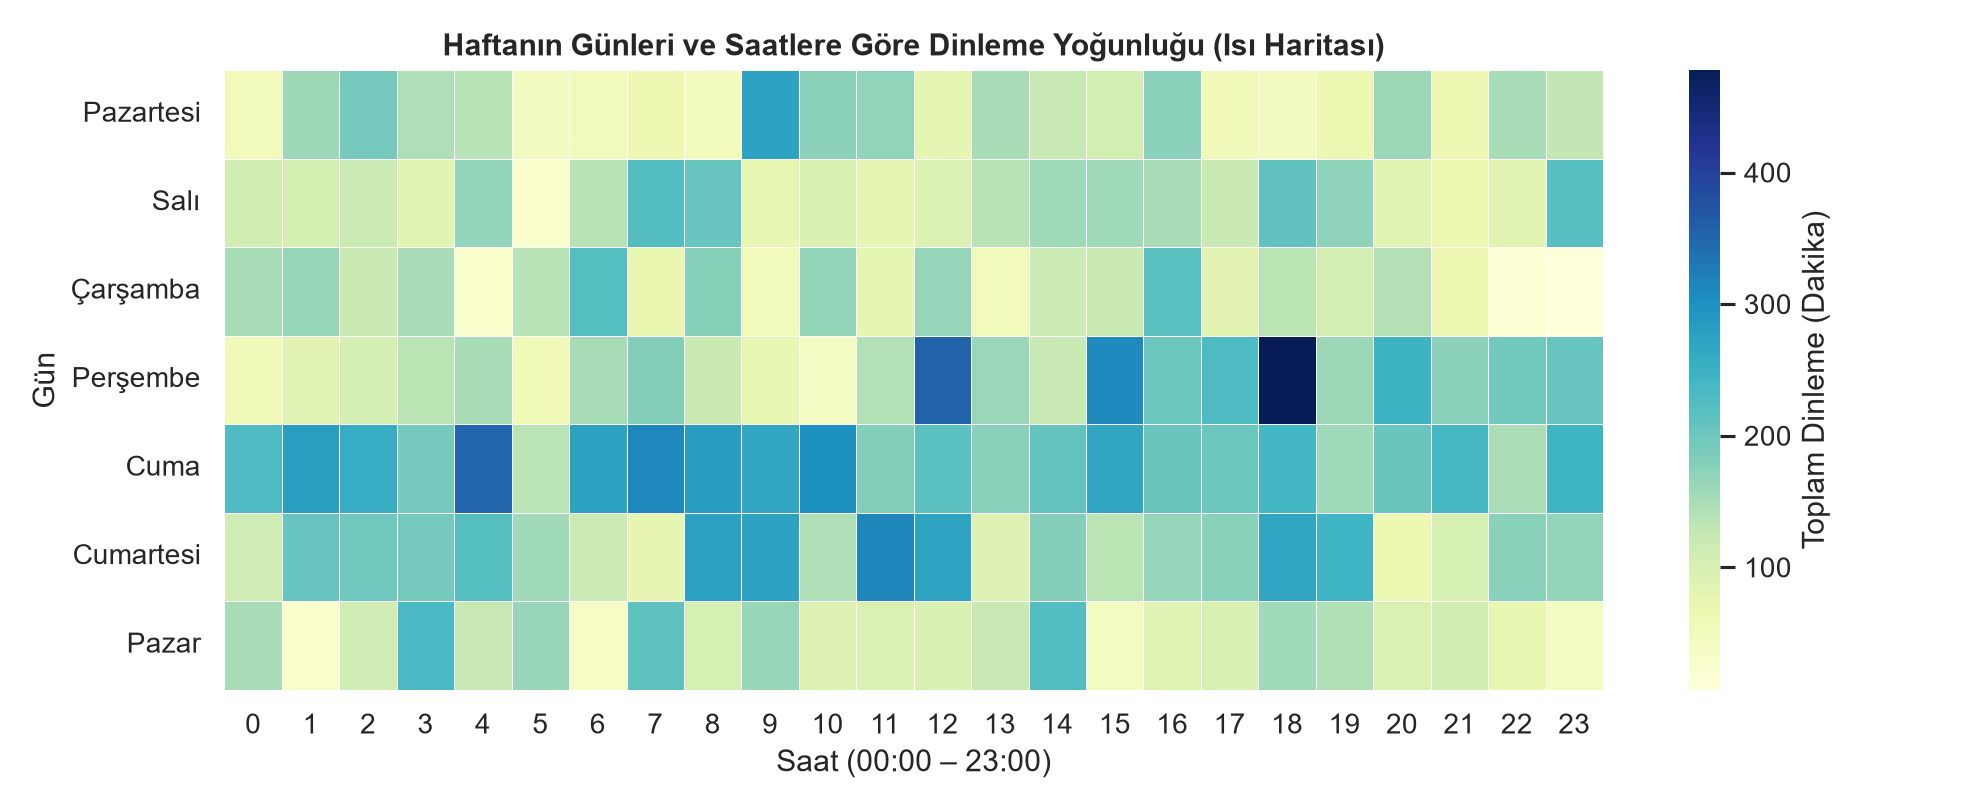
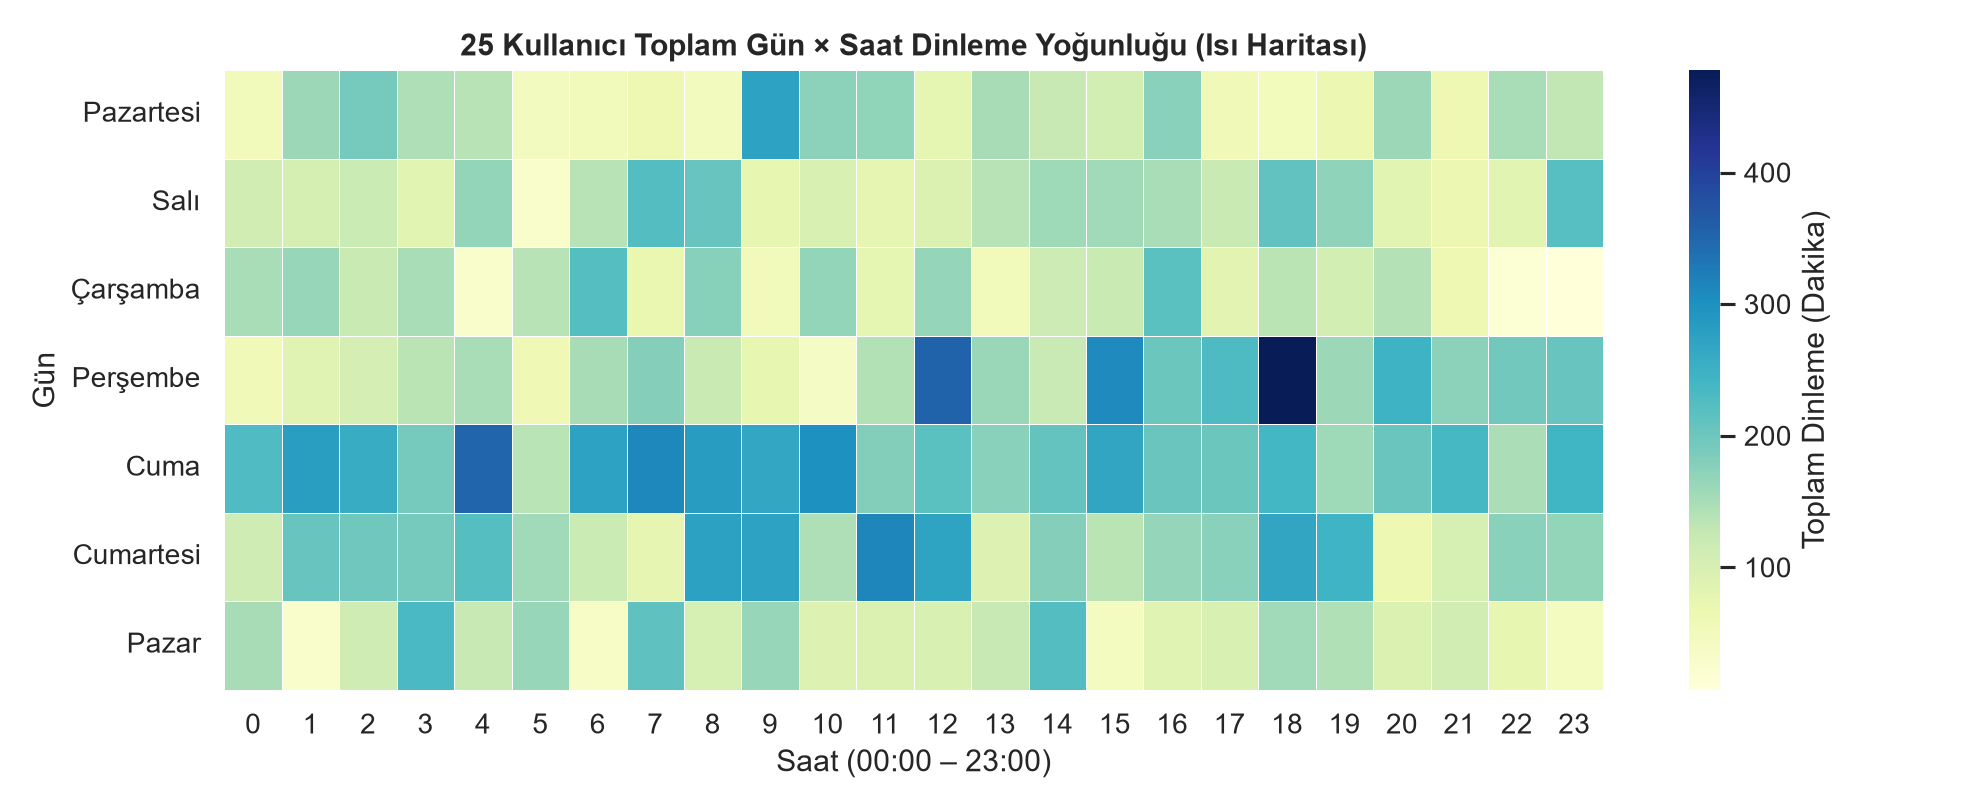
fix(eda): preserve per-user session boundaries across 25 Last.fm users (793 sessions)

Changed region(s): [[0.2157, 0.0309, 0.7086, 0.0926]]

diff --git a/src/features/clean_and_eda.py b/src/features/clean_and_eda.py
@@ -6,28 +6,6 @@
 Proje: Kişisel Dinleme Alışkanlıklarının Madenciliği, Oturum Kümelemesi ve
 Sonraki Şarkı Önerisi
 Öğrenci: Hasan Kaplan (256066007)
-
-Hafta 3 Gereksinimleri (Şartname Bölüm 07):
-- "Temizleme, eksik veri ve aykırı değer analizi, EDA. Araştırma soruları
-gerekirse güncellenir."
-
-Bu betik:
-1. `data/processed/raw_combined_history.parquet` (veya
-`listening_history.parquet`) dosyasını okur.
-2. Veri kalitesi, eksik veri ve aykırı değer (outlier) analizini yapar:
-   - Eksik (`null`) zaman damgası, sanatçı veya şarkı kayıtlarını raporlar ve
-   temizler.
-   - Mükerrer (`played_at` + `artist_name` + `track_name`) kayıtları eler.
-   - `< 1.000 ms` (1 sn altı) hatalı tıklama gürültüsünü ve `> 3.600.000 ms` (60
-   dk üstü) açık kalma anomalilerini filtreler; IQR yöntemiyle oturum süresi
-   dağılımını inceler.
-3. Dinleme oturumlarını (`session_id`) 30 dakikalık boşluk eşiğine göre yeniden
-numaralandırır ve
-   oturum bazlı öznitelik tablosunu (`data/processed/sessions_features.parquet`)
-   üretir.
-4. Aşama 1 ara raporunda kullanılacak 4 temel EDA grafiğini (`outputs/figures/`)
-ve kalite/EDA
-   özet raporunu (`outputs/findings/eda_summary.json`) üretir.
 """
 
 from __future__ import annotations
@@ -61,12 +39,17 @@ def assign_day_period(hour: int) -> str:
 
 
 def clean_listening_records(df: pd.DataFrame) -> tuple[pd.DataFrame, dict]:
-  """Eksik değerleri, mükerrer kayıtları ve süre aykırı değerlerini temizler."""
+  """Eksik değerleri, mükerrer kayıtları ve süre aykırı değerlerini kullanıcı bazında (`user_id`) temizler."""
   initial_count = len(df)
+
+  if "user_id" not in df.columns:
+    df["user_id"] = "user_01"
 
   # 1. Eksik temel alanların kontrolü ve temizlenmesi
   required_cols = ["played_at", "artist_name", "track_name", "ms_played"]
-  missing_before = {col: int(df[col].isna().sum()) for col in required_cols if col in df.columns}
+  missing_before = {
+      col: int(df[col].isna().sum()) for col in required_cols if col in df.columns
+  }
   df = df.dropna(subset=required_cols).copy()
 
   if "primary_genre" not in df.columns:
@@ -74,25 +57,39 @@ def clean_listening_records(df: pd.DataFrame) -> tuple[pd.DataFrame, dict]:
   else:
     df["primary_genre"] = df["primary_genre"].fillna("unknown").astype(str)
 
-  # 2. Mükerrer kayıt kontrolü
-  dup_count = int(df.duplicated(subset=["played_at", "artist_name", "track_name"]).sum())
-  df = df.drop_duplicates(subset=["played_at", "artist_name", "track_name"]).copy()
+  # 2. Kullanıcı bazında mükerrer kayıt kontrolü
+  dup_cols = ["user_id", "played_at", "artist_name", "track_name"]
+  dup_count = int(df.duplicated(subset=dup_cols).sum())
+  df = df.drop_duplicates(subset=dup_cols).copy()
 
   # 3. Aykırı süre filtresi (< 1 sn veya > 60 dk)
   too_short_count = int((df["ms_played"] < MIN_MS_THRESHOLD).sum())
   too_long_count = int((df["ms_played"] > MAX_MS_THRESHOLD).sum())
-  df = df[(df["ms_played"] >= MIN_MS_THRESHOLD) & (df["ms_played"] <= MAX_MS_THRESHOLD)].copy()
+  df = df[
+      (df["ms_played"] >= MIN_MS_THRESHOLD)
+      & (df["ms_played"] <= MAX_MS_THRESHOLD)
+  ].copy()
 
-  # 4. Kronolojik sıralama ve oturum (session) yeniden hesaplama
+  # 4. Kullanıcı bazında (`user_id`) kronolojik sıralama ve oturum (session_id) hesaplama
   df["played_at"] = pd.to_datetime(df["played_at"], utc=True)
-  df = df.sort_values("played_at").reset_index(drop=True)
+  df = df.sort_values(["user_id", "played_at"]).reset_index(drop=True)
 
   df["minutes_played"] = (df["ms_played"] / 60_000.0).round(3)
   df["is_skipped"] = df["ms_played"] < SKIP_MS_THRESHOLD
 
-  gap_min = df["played_at"].diff().dt.total_seconds().div(60.0).fillna(0.0)
+  gap_min = (
+      df.groupby("user_id")["played_at"]
+      .diff()
+      .dt.total_seconds()
+      .div(60.0)
+      .fillna(0.0)
+  )
   df["gap_minutes"] = gap_min.round(2)
-  df["is_new_session"] = (gap_min > SESSION_GAP_MINUTES) | (df.index == 0)
+
+  is_first_of_user = df["user_id"] != df["user_id"].shift(1)
+  df["is_new_session"] = is_first_of_user | (
+      df["gap_minutes"] > SESSION_GAP_MINUTES
+  )
   df["session_id"] = df["is_new_session"].cumsum()
 
   # Pandas 3.x / 4.x tam uyumlu tarih/saat özellikleri (dt.day_of_week)
@@ -111,6 +108,7 @@ def clean_listening_records(df: pd.DataFrame) -> tuple[pd.DataFrame, dict]:
   quality_report = {
       "initial_rows": int(initial_count),
       "cleaned_rows": int(len(df)),
+      "unique_users": int(df["user_id"].nunique()),
       "missing_values_before": missing_before,
       "duplicates_removed": dup_count,
       "outliers_too_short_removed": too_short_count,
@@ -128,7 +126,7 @@ def clean_listening_records(df: pd.DataFrame) -> tuple[pd.DataFrame, dict]:
 
 
 def build_session_features(df: pd.DataFrame) -> pd.DataFrame:
-  """Her dinleme oturumu (session_id) için öznitelik tablosunu üretir."""
+  """Her dinleme oturumu (session_id) için kullanıcı kimliğini (`user_id`) koruyarak öznitelik tablosunu üretir."""
   local_dt = df["played_at"].dt.tz_convert("Europe/Istanbul")
   df_temp = df.assign(local_played_at=local_dt)
 
@@ -139,6 +137,7 @@ def build_session_features(df: pd.DataFrame) -> pd.DataFrame:
   sessions = (
       df_temp.groupby("session_id", as_index=False)
       .agg(
+          user_id=("user_id", "first"),
           session_start=("local_played_at", "min"),
           session_end=("local_played_at", "max"),
           track_count=("track_name", "count"),
@@ -163,8 +162,12 @@ def build_session_features(df: pd.DataFrame) -> pd.DataFrame:
   ).round(4)
 
   # Döngüsel (cyclical) saat kodlaması
-  sessions["sin_hour"] = np.sin(2 * np.pi * sessions["start_hour"] / 24.0).round(4)
-  sessions["cos_hour"] = np.cos(2 * np.pi * sessions["start_hour"] / 24.0).round(4)
+  sessions["sin_hour"] = np.sin(
+      2 * np.pi * sessions["start_hour"] / 24.0
+  ).round(4)
+  sessions["cos_hour"] = np.cos(
+      2 * np.pi * sessions["start_hour"] / 24.0
+  ).round(4)
 
   return sessions
 
@@ -177,7 +180,6 @@ def generate_eda_figures(
   sns.set_theme(style="whitegrid", palette="deep")
   saved_files: list[str] = []
 
-  # 1. Gün × Saat Dinleme Yoğunluğu Isı Haritası
   day_order = [
       "Monday",
       "Tuesday",
@@ -221,7 +223,7 @@ def generate_eda_figures(
       cbar_kws={"label": "Toplam Dinleme (Dakika)"},
   )
   ax.set_title(
-      "Haftanın Günleri ve Saatlere Göre Dinleme Yoğunluğu (Isı Haritası)",
+      "25 Kullanıcı Toplam Gün × Saat Dinleme Yoğunluğu (Isı Haritası)",
       fontsize=12,
       fontweight="bold",
   )
@@ -233,7 +235,6 @@ def generate_eda_figures(
   plt.close(fig)
   saved_files.append(str(f1))
 
-  # 2. En Çok Dinlenen İlk 12 Sanatçı ve Atlama (Skip) Oranları
   top_artists = (
       df.groupby("artist_name", as_index=False)
       .agg(
@@ -275,7 +276,6 @@ def generate_eda_figures(
   plt.close(fig)
   saved_files.append(str(f2))
 
-  # 3. Oturum Uzunluğu (Dakika) ve Oturum Başına Şarkı Sayısı Dağılımı
   fig, axes = plt.subplots(1, 2, figsize=(10.5, 4.2), dpi=180)
   sns.histplot(
       sessions["total_minutes"], bins=25, kde=True, color="#2563EB", ax=axes[0]
@@ -300,7 +300,6 @@ def generate_eda_figures(
   plt.close(fig)
   saved_files.append(str(f3))
 
-  # 4. Günün Zaman Dilimlerine Göre Müzik Türü Dağılımı
   period_order = [
       "Sabah (06-11)",
       "Gündüz (12-17)",
@@ -377,10 +376,7 @@ def main() -> None:
     if fallback.exists():
       input_path = fallback
     else:
-      raise FileNotFoundError(
-          f"Girdi dosyası bulunamadı: {args.input}. Önce Hafta 2 betiğini"
-          " çalıştırın."
-      )
+      raise FileNotFoundError(f"Girdi dosyası bulunamadı: {args.input}.")
 
   df_raw = pd.read_parquet(input_path)
   df_clean, quality_report = clean_listening_records(df_raw)
@@ -419,7 +415,7 @@ def main() -> None:
   with open(summary_json_path, "w", encoding="utf-8") as f:
     json.dump(quality_report, f, ensure_ascii=False, indent=2)
 
-  print(f"[OK] Temizlenen dinleme verisi : {len(df_clean):,} satır -> {clean_path}")
+  print(f"[OK] Temizlenen dinleme verisi : {len(df_clean):,} satır ({quality_report['unique_users']} kullanıcı) -> {clean_path}")
   print(f"[OK] Oturum öznitelik tablosu  : {len(sessions_df):,} oturum -> {sessions_path}")
   print(f"[OK] EDA kalite ve özet raporu : {summary_json_path}")
   print(f"[OK] Üretilen EDA grafikleri   : {len(saved_figs)} adet ({args.figures_dir})")
